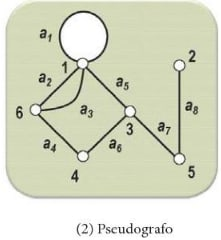
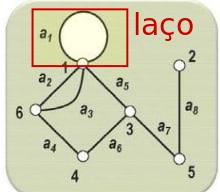
organização de notas sobre grafos

diff --git a/grafos/p0002_representacao_matematica.md b/grafos/p0002_representacao_matematica.md
@@ -1,22 +1,26 @@
 # Representação matemática de grafos
 
+
 Como já vimos anteriormente, um grafo é uma estrutura abstrata que representa um conjunto de elementos chamado de vértices e suas relações de interdependência com (as arestas).
 
-Denominamos de N o conjunto de vértices e de M o conjunto de arestas. Logo, temos que **G=(N,M)**.
+Denominamos de N o conjunto de vértices e de M o conjunto de arestas. Logo, temos que **G = (N, M)**.
 
 ![Grafos diversos](img/p0002-0.jpeg)
 
 O grafo G1 não possui vértices rotulados. Logo, para G1 temos:
-N={1, 2, 3, 4, 5, 6, 7, 8}
-M={2-7, 7-1, 1-4, 4-6, 4-5, 5-6, 4-3, 3-8}
+
+N = {1, 2, 3, 4, 5, 6, 7, 8}
+M = {2-7, 7-1, 1-4, 4-6, 4-5, 5-6, 4-3, 3-8}
 
 O grafo G2 possui vértices rotulados. Logo, para G2 temos:
-N={1, 2, 3, 4, 5, 6}
-M={a, b, c, d, e, f}
+
+N = {1, 2, 3, 4, 5, 6}
+M = {a, b, c, d, e, f}
 
 O grafo G3 não possui vértices rotulados. Logo, para G3 temos:
-N={1, 2, 3, 4, 5}
-M={1-2, 1-5, 2-3, 3-4, 4-5}
+
+N = {1, 2, 3, 4, 5}
+M = {1-2, 1-5, 2-3, 3-4, 4-5}
 
 Exemplo de uso de um grafo: A formação de um grafo a partir de um esquema de um circuito.
 
@@ -28,4 +32,4 @@ Exemplo de uso de um grafo: A formação de um grafo a partir de um esquema de u
 
 _Goldbarg, M. (2012). Grafos: Conceitos, Algoritmos e Aplicações, páginas 172-173. Elsevier._
 
-tags: grafos, conjunto, representacao, matematica
+tags: grafos, conjunto, representação, matemática

diff --git a/grafos/p0001_grafo.md b/grafos/p0001_grafo.md
@@ -2,7 +2,7 @@
 
 ## O que é um grafo?
 
-Matematicamente, um grafo formaliza relações de interdependência existentes entre elementos de um conjunto.
+Matematicamente, um grafo formaliza **relações de interdependência** existentes entre elementos de um conjunto.
 
 Na modelagem de um grafo, os elementos do conjunto que são desenhados como pontos ou círculos são denominados de **nós** ou **vértices**. A relação entre os elementos do conjunto são caracterizados por traços ou seta denominadas de **arestas** ou **arcos**.
 
@@ -20,4 +20,4 @@ São elementos de um grafo:
 
 _Goldbarg, M. (2012). Grafos: Conceitos, Algoritmos e Aplicações, página 172. Elsevier._
 
-tags: grafos, vertices, arestas, matematica
+tags: grafos, vértices, arestas, matemática

diff --git a/grafos/p0003_grafo_simples.md b/grafos/p0003_grafo_simples.md
@@ -1,0 +1,24 @@
+# Tipos de grafos
+
+## Grafo simples
+
+
+Denominamos de **grafo simples**, um grafo qualquer que não possui **laços** nem **arestas paralelas**.
+
+![grafo simples](img/p0003-0.png)
+
+Uma aresta que liga um vértice a ele mesmo é denominada de **laço**.
+
+![laço em um grafo](img/p0003-1.jpeg)
+
+Se duas ou mais arestas representam ligações diferentes entre vértices idênticos, são denominadas **arestas paralelas**.
+
+![arestas paralelas em um grafo](img/p0003-2.jpeg)
+
+---
+
+**Referência**
+
+_Goldbarg, M. (2012). Grafos: Conceitos, Algoritmos e Aplicações, página 177. Elsevier._
+
+tags: grafos, grafo simples, laços, arestas paralelas

diff --git a/grafos/p0005_multigrafo.md b/grafos/p0005_multigrafo.md
@@ -1,0 +1,15 @@
+# Tipos de grafos
+
+## Multigrafo
+
+Um grafo não direcionado que possui **pelo menos duas arestas paralelas** é denominado de **multigrafo**. Se o grafo for direcionado, então se chamará **multigrafo direcionado**.
+
+![multigrafo](img/p0005-0.jpeg)
+
+---
+
+**Referência**
+
+_Goldbarg, M. (2012). Grafos: Conceitos, Algoritmos e Aplicações, página 177. Elsevier._
+
+tags: grafos, multigrafo, direcionado, arestas paralelas

diff --git a/grafos/p0009_grafo_nulo.md b/grafos/p0009_grafo_nulo.md
@@ -1,0 +1,19 @@
+# Tipos de grafos
+
+## Grafo nulo
+
+É aquele que **não possui vértices**.
+
+**G = (V, E)** é nulo se **V = { }** e  **E = { }**.
+
+- **V** número de vértices;
+- **E** número de arestas;
+- **{ }** conjunto vazio.
+
+---
+
+**Referência**
+
+_Goldbarg, M. (2012). Grafos: Conceitos, Algoritmos e Aplicações, página 177. Elsevier._
+
+tags: grafos, grafo nulo, vértices, arestas, conjunto vazio

diff --git a/grafos/p0004_pseudografo.md b/grafos/p0004_pseudografo.md
@@ -1,0 +1,17 @@
+# Tipos de grafos
+
+## Pseudografo
+
+É um grafo que contém **pelo menos um laço**.
+
+![laço em um grafo](img/p0003-1.jpeg)
+
+![pseudografo](img/p0004-0.jpeg)
+
+---
+
+**Referência**
+
+_Goldbarg, M. (2012). Grafos: Conceitos, Algoritmos e Aplicações, página 177. Elsevier._
+
+tags: grafos, pseudografo, laço

diff --git a/grafos/p0006_grafo_reflexivo.md b/grafos/p0006_grafo_reflexivo.md
@@ -1,0 +1,15 @@
+# Tipos de grafos
+
+## Grafo reflexivo
+
+É um pseudografo onde **todos os vértices possuem um laço**.
+
+![grafo reflexivo](img/p0006-0.jpeg)
+
+---
+
+**Referência**
+
+_Goldbarg, M. (2012). Grafos: Conceitos, Algoritmos e Aplicações, página 177. Elsevier._
+
+tags: grafos, grafo reflexivo, laço

diff --git a/grafos/p0007_grafo_vazio.md b/grafos/p0007_grafo_vazio.md
@@ -1,0 +1,15 @@
+# Tipos de grafos
+
+## Grafo vazio
+
+É aquele que **só possui exclusivamente vértices**. 
+
+![grafo vazio](img/p0007-0.jpeg)
+
+---
+
+**Referência**
+
+_Goldbarg, M. (2012). Grafos: Conceitos, Algoritmos e Aplicações, página 177. Elsevier._
+
+tags: grafos, grafo vazio, vértice

diff --git a/grafos/p0008_grafo_trivial.md b/grafos/p0008_grafo_trivial.md
@@ -1,0 +1,15 @@
+# Tipos de grafos
+
+## Grafo trivial
+
+Um aquele que possui apenas **um vértice**.
+
+![grafo trivial](img/p0008-0.jpeg)
+
+---
+
+**Referência**
+
+_Goldbarg, M. (2012). Grafos: Conceitos, Algoritmos e Aplicações, página 177. Elsevier._
+
+tags: grafos, vértices, grafo trivial
